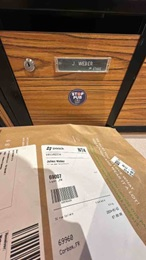
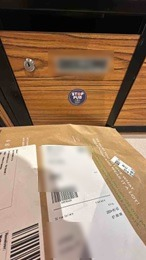
Troisieme contre-exemple main propre et floutage des donnees clients
- Ajout de MP_KO3.jpg : colis presente devant un portail ferme, ni client
  ni porte ouverte. Etiquette floutee avant integration (nom, adresse,
  numero de commande et code barre d'une vraie cliente).
- Floutage leger de donnees personnelles deja en ligne :
  SMS1.jpg, numero de mobile du client visible en clair sur la ligne
  'Chat RCS avec ...' ; BAL1.jpg, nom sur la plaque de boite aux lettres
  et sur l'etiquette du colis ; BAL2.jpg, nom de famille sur la boite.
  Le flou laisse voir qu'un nom est present sans permettre de le lire,
  la valeur pedagogique des photos est conservee.
  Ces trois images sont partagees avec la V1, qui en beneficie aussi.

diff --git a/v2/index.html b/v2/index.html
@@ -1550,6 +1550,13 @@
                         </div>
                         <p class="photo-caption" style="color:#a32d2d;">❌ Colis abandonné dans l'ascenseur</p>
                     </div>
+                    <div class="photo-item">
+                        <div style="position:relative; display:inline-block; width:100%;">
+                            <img src="../images/MP_KO3.jpg" alt="Photo invalide 3" class="invalid-photo" style="border:3px solid #d64545;" onerror="this.style.display='none'">
+                            <div class="photo-badge" style="position:absolute; top:8px; left:8px; background:#d64545;">❌ INVALIDE</div>
+                        </div>
+                        <p class="photo-caption" style="color:#a32d2d;">❌ Ni client ni porte ouverte</p>
+                    </div>
                 </div>
             </div>
 
